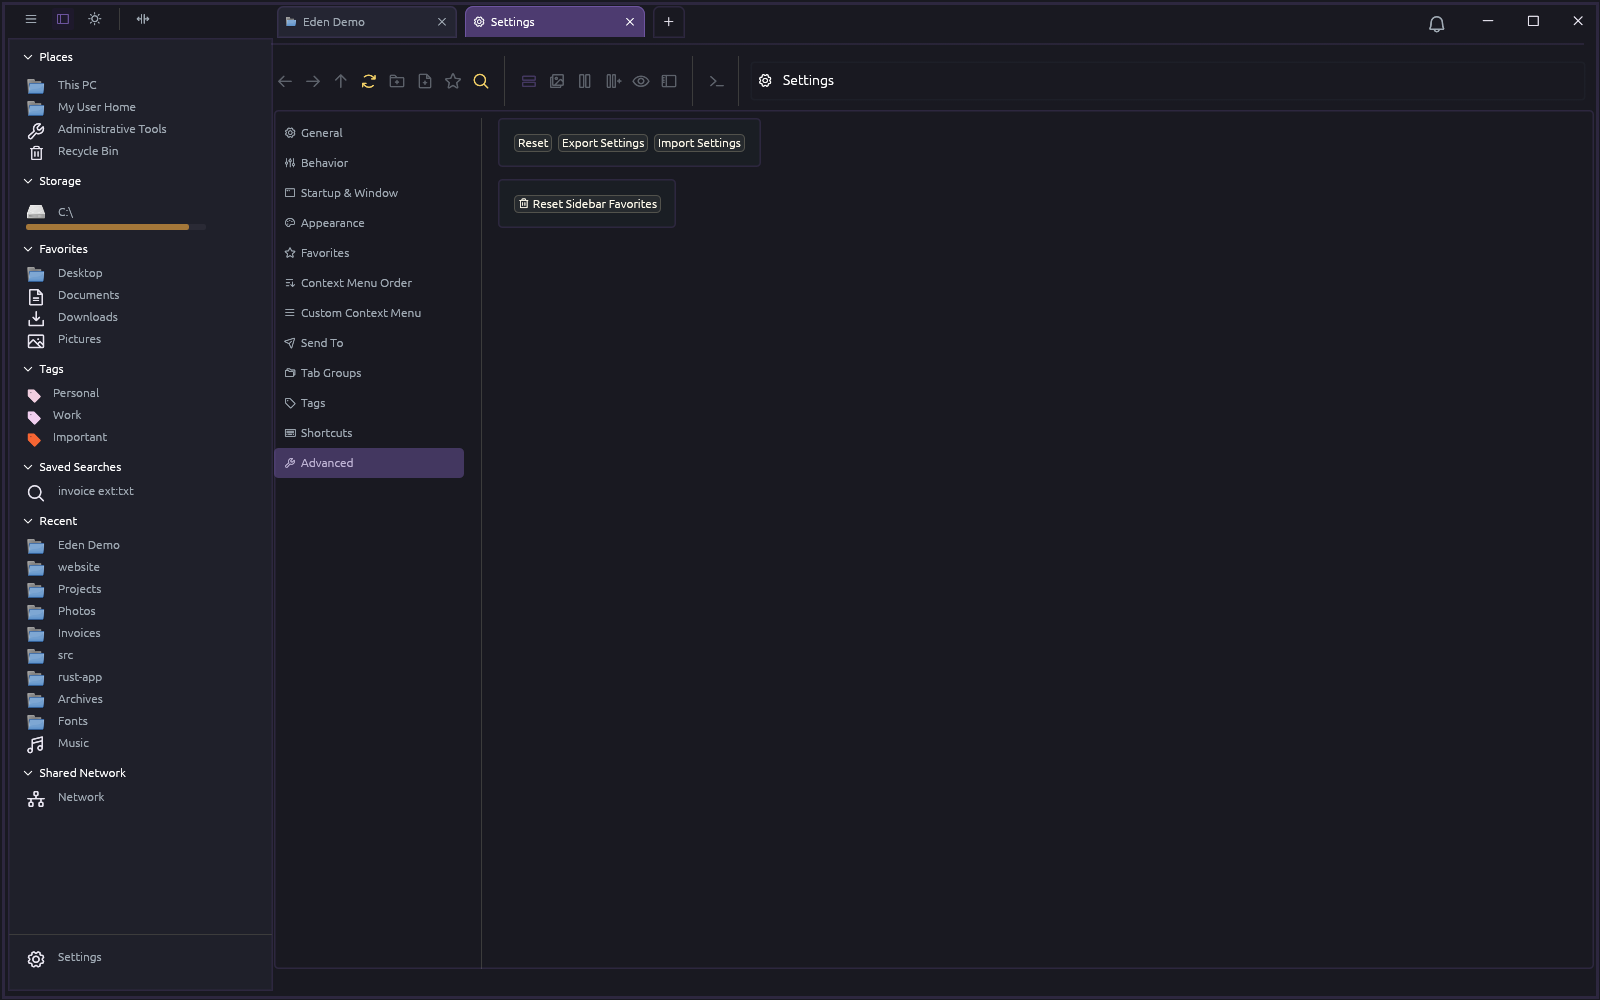
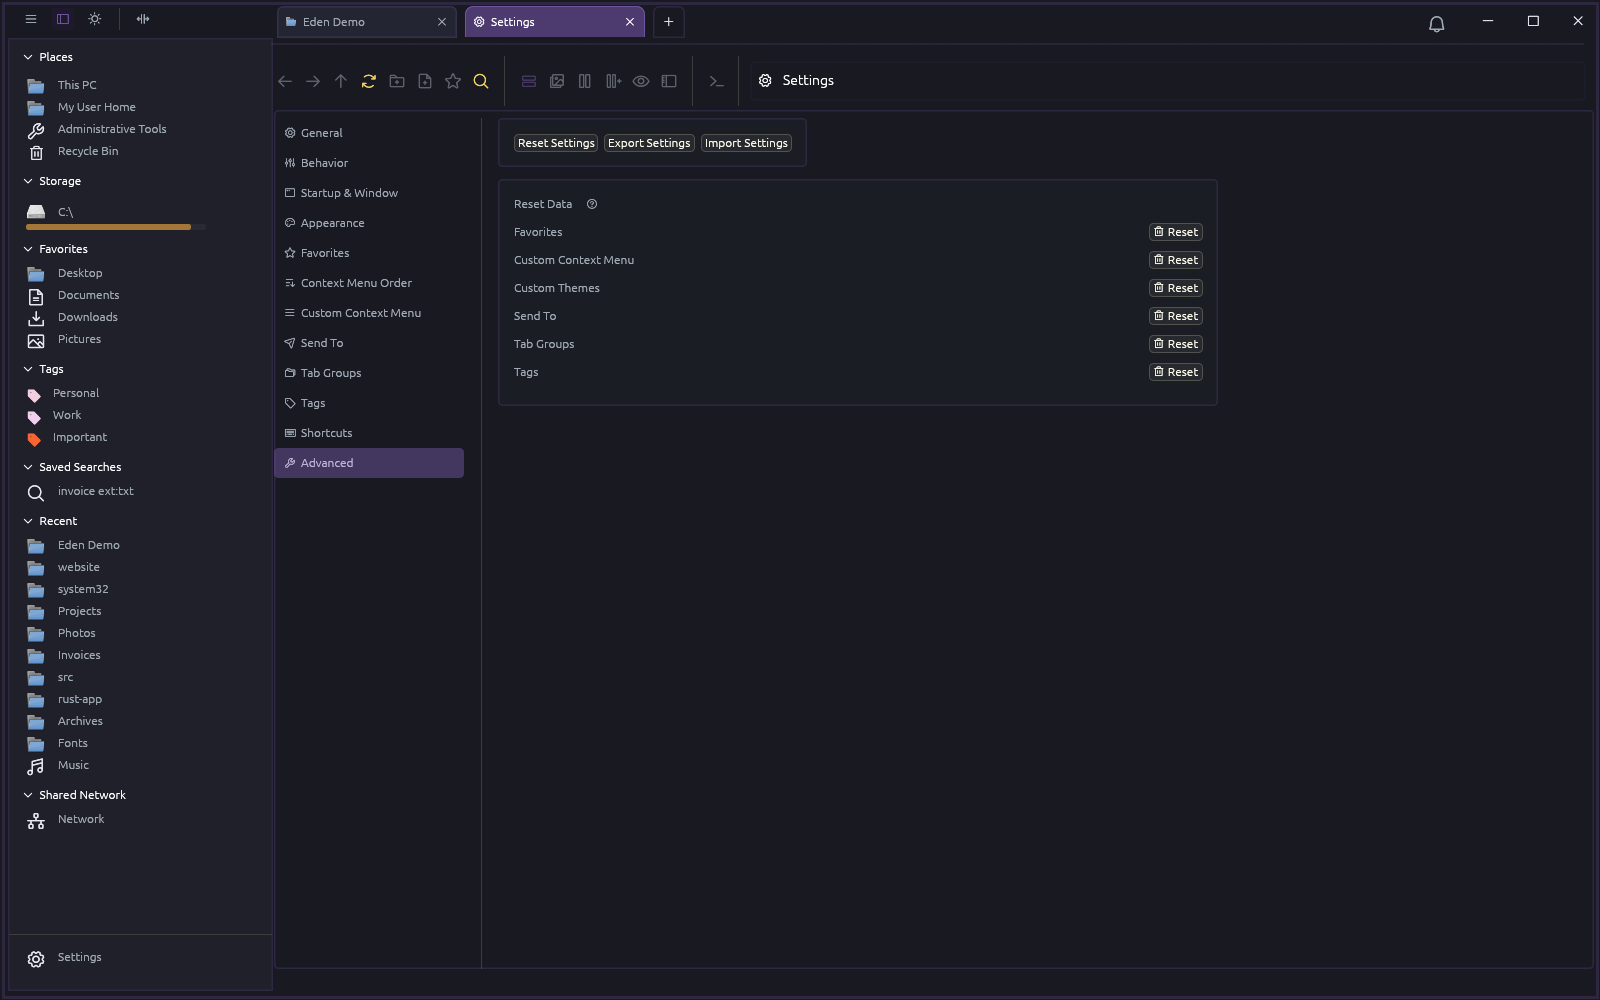
docs: Update README, FEATURES.md, and screenshots for Reset Data and recent fixes
Claude-Session: https://claude.ai/code/session_01NnbUtrCJDbJrzn3g1Wvtm7

diff --git a/FEATURES.md b/FEATURES.md
@@ -21,7 +21,8 @@
 <ul>
   <li><b>Real-time file and directory filtering</b> as you type</li>
   <li><b>Real-time file indexing</b> for fast search and filtering</li>
-  <li><b>Fuzzy matching</b> for intelligent search results</li>
+  <li><b>Predictable substring matching</b> when typing to filter a folder</li>
+  <li><b>Global search</b> with a built-in engine or voidtools Everything, <code>ext:</code>/<code>size:</code>/<code>modified:</code>/<code>content:</code> filters, and Saved Searches</li>
   <li><b>Lexicographic multi-column sorting</b> with Shift+Click to add sort columns and Ctrl+Click to remove them</li>
   <li><b>Persistent column sorting</b> across sessions</li>
   <li><b>Persistent column sizing and view settings</b> across sessions</li>
@@ -36,6 +37,9 @@
   <li><b>System font selection</b> using installed Windows fonts</li>
   <li><b>Persistent application settings</b> across restarts</li>
   <li><b>Custom folder colors</b> for visual organization</li>
+  <li><b>Prebuilt and custom themes</b> with a live preview of every themeable surface</li>
+  <li><b>Show or hide sidebar sections</b> (Favorites, Tags, Saved Searches, Recent, Shared Network)</li>
+  <li><b>Shortcuts page</b> listing every keyboard and mouse shortcut</li>
 </ul>
 
 <h3>Tags & Organization</h3>
@@ -45,7 +49,8 @@
   <li><b>Custom tag colors</b> with Explorer visualization</li>
   <li><b>Tag-aware Explorer views</b> that visually identify tagged objects</li>
   <li><b>Favorites management</b> with drag-and-drop reorganization</li>
-  <li><b>Favorite reset and reorganization</b> capabilities</li>
+  <li><b>Multi-tagging</b> - an item can belong to several tag groups at once</li>
+  <li><b>Reset Data</b> - clear Favorites, Custom Context Menu, Custom Themes, Send To, Tab Groups, or Tags individually</li>
 </ul>
 
 </td>
@@ -66,6 +71,8 @@
   <li><b>Media Gallery views</b> with small, medium, large, and extra-large thumbnail layouts</li>
   <li><b>Tabbed navigation</b> with independent loading states</li>
   <li><b>Tab Groups</b> - save a named set of folders and reopen them all at once</li>
+  <li><b>Six view layouts</b> - Details, Gallery, Columns, Columns + Preview, Preview, and Details + Preview</li>
+  <li><b>Preview pane</b> for images, Markdown with Mermaid diagrams, code, PDF, Office, fonts, archives, audio, and video</li>
 </ul>
 
 <h3>File Operations</h3>
@@ -76,6 +83,8 @@
   <li><b>Drag and drop into breadcrumb folders</b> and directory tabs</li>
   <li><b>Drag and drop to native Windows applications</b>, Desktop, File Explorer, and other OS objects</li>
   <li><b>Windows Shell integration</b> with optional native Windows registry context menu commands</li>
+  <li><b>Custom Context Menu</b> commands and <b>Send To</b> destinations, with a reorderable right-click menu</li>
+  <li><b>Bulk Rename</b>, <b>Checksums</b>, <b>Compress (Zip)</b>, and Undo/Redo for rename, move, and copy</li>
 </ul>
 
 <h3>Devices & Filesystems</h3>
@@ -98,6 +107,13 @@
   <li><b>Windows API integration</b> for native operating system functionality</li>
   <li><b>Custom executable icon and file association</b></li>
   <li><b>Persistent settings</b> using efficient binary cache</li>
+</ul>
+
+<h3>Security</h3>
+<ul>
+  <li><b>Safe command substitution</b> - file names can't inject arguments into Custom Context Menu commands</li>
+  <li><b>System tools launched by full path</b>, so a look-alike <code>.exe</code> next to the portable app is never run</li>
+  <li><b>Size-capped previews</b> that refuse decompression bombs instead of running out of memory</li>
 </ul>
 
 <h3>Localization</h3>

diff --git a/README.md b/README.md
@@ -120,7 +120,7 @@
 | ![Markdown and Mermaid preview](Screenshots/07-markdown-mermaid-preview.png) | ![Split view](Screenshots/13-split-view.png) |
 | ![Bulk rename](Screenshots/23-bulk-rename.png) | ![Settings - Shortcuts](Screenshots/39-settings-shortcuts.png) |
 
-See the [Screenshots folder](Screenshots/README.md) for all 41 feature screenshots.
+See the [Screenshots folder](Screenshots/README.md) for all 42 feature screenshots.
 
 ## Star History
 
@@ -305,6 +305,8 @@ The full list, including mouse shortcuts, is also available in the app under **S
 - [x] **Shortcuts page in Settings** - a Shortcuts category (between Tags and Advanced) lists every keyboard and mouse shortcut in the app, grouped into Tabs, Navigation, Files & Selection, Mouse, and Window, with each key combination drawn as keycaps
 - [x] **Show/hide sidebar sections** - Settings > General > Sidebar Sections lets you hide Favorites, Tags, Saved Searches, Recent, and Shared Network from the sidebar (Places and Storage are always shown)
 - [x] **Reset Data** - Settings > Advanced > Reset Data can clear Favorites, Custom Context Menu, Custom Themes, Send To, Tab Groups, or Tags on their own, each with a confirmation that explains exactly what will be removed
+- [x] **Security hardening** - Custom Context Menu placeholders are filled in a single pass (a file name containing `%*` or `%1` can no longer inject arguments) and paths ending in `\` are quoted correctly; robocopy, cmd, PowerShell, and Windows Terminal are launched by their full install path; the terminal button can't be tricked by a folder name containing `;`; and .docx, EPUB, .svgz, and large-PDF previews are size-capped against decompression bombs
+- [x] **Performance and stability fixes** - icons are requested once instead of every frame while loading, per-file icon textures are capped, the built-in search stops as soon as its tab is closed, text previews read only the part they show, and previews with CJK or emoji text no longer crash the preview loader
 - [x] **Consistent Title Case** - buttons, menu items, headings, setting labels, and short tooltips all use Title Case; longer explanations stay as normal sentences
 
 

diff --git a/Screenshots/README.md b/Screenshots/README.md
@@ -166,10 +166,14 @@ Browsing Photos in Gallery and Details + Preview, previewing a Markdown file wit
 
 ![Settings - Shortcuts](39-settings-shortcuts.png)
 
-### Settings - Advanced
+### Settings - Advanced, with Reset Settings, Export/Import Settings, and the Reset Data card
 
 ![Settings - Advanced](40-settings-advanced.png)
 
 ### Settings - General > Sidebar Sections, with Saved Searches, Recent, and Shared Network hidden from the sidebar
 
 ![Sidebar sections hidden](41-sidebar-sections-hidden.png)
+
+### Reset Data confirmation - every reset explains exactly what it removes before anything is deleted
+
+![Reset Data confirmation](42-reset-data-confirm.png)
